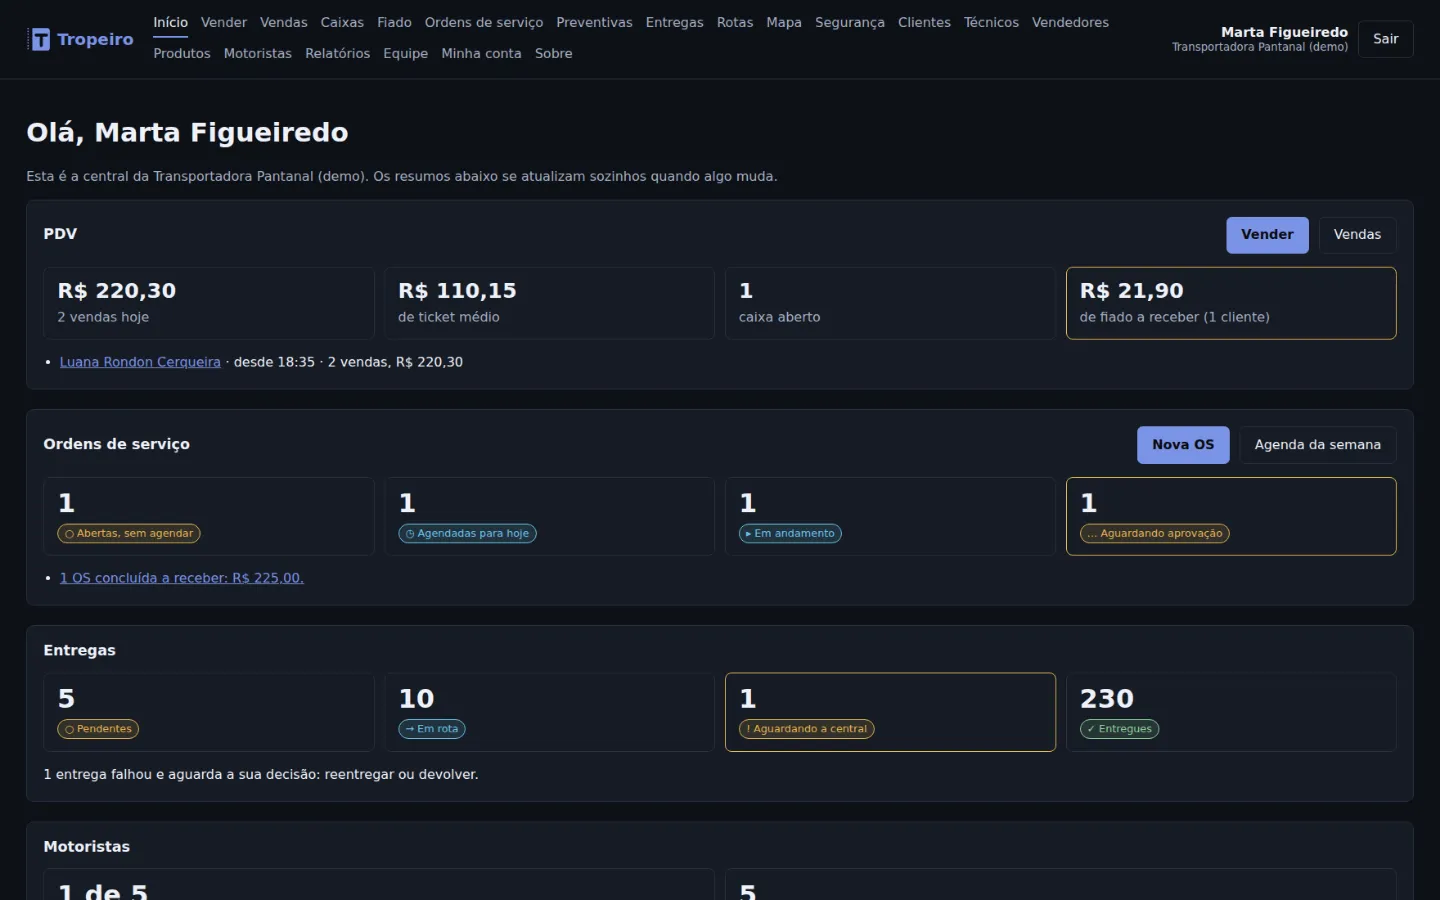
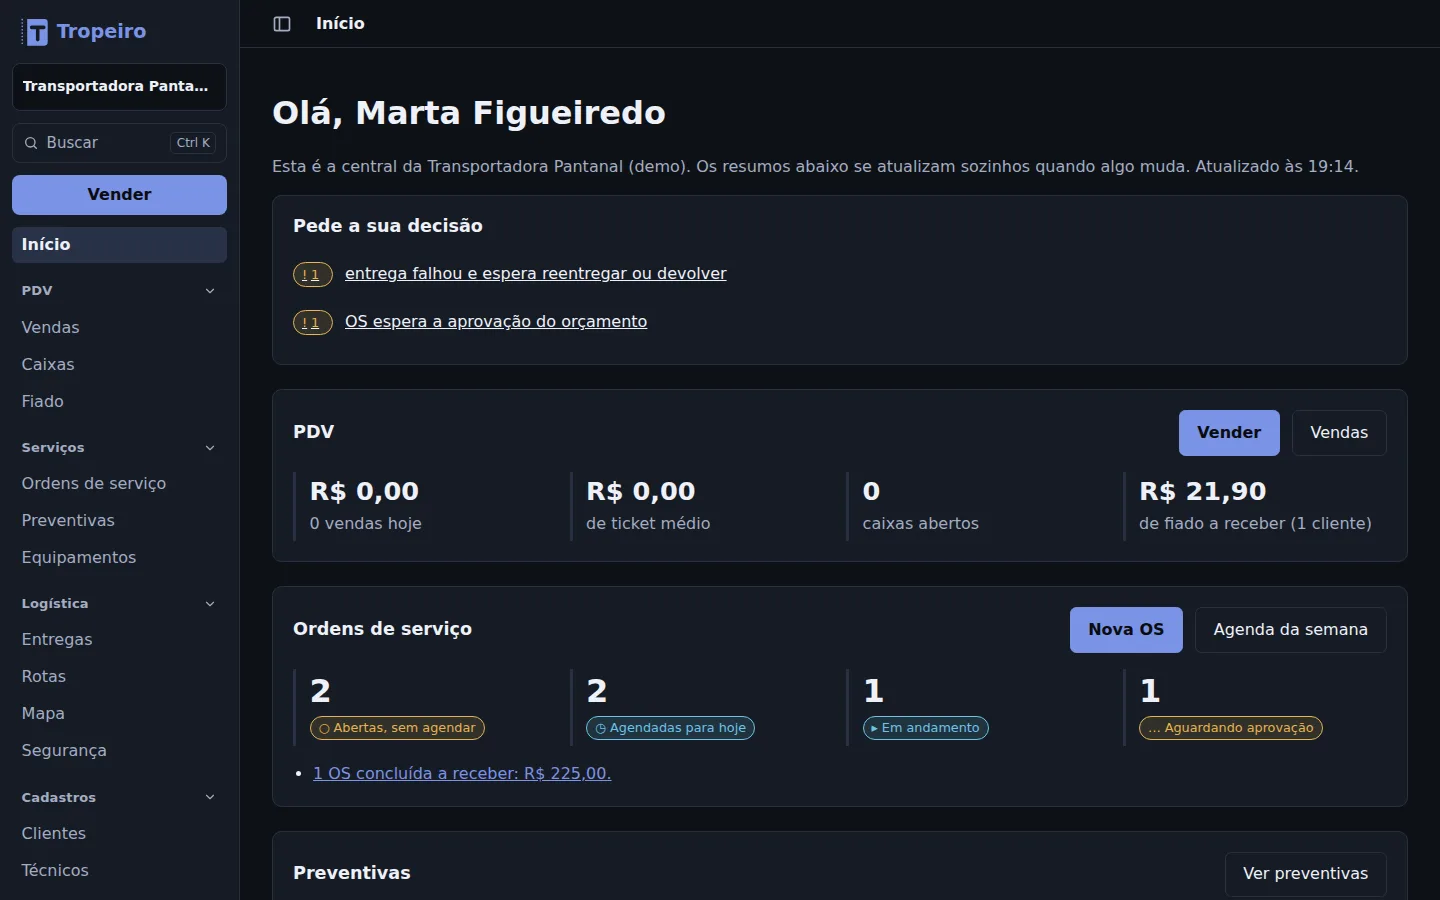
feat: Tropeiro 1.20.0 e Scanner Doc 5.10.2, com telas novas (v1.11.0)
- Tropeiro: selo na v1.20.0, a API pública e os 90 dias de avaliação
  na lista, e a tela do painel com a navegação lateral.
- Scanner Doc: selo na v5.10.2, português e inglês na abertura, o Editar
  com formulários e o Trocar texto na lista, a assinatura validada no ITI
  e as telas do redesenho.
- Rodapé das duas páginas na v1.11.0.

diff --git a/en/index.html b/en/index.html
@@ -81,7 +81,7 @@
             <div class="item-body item-intro">
               <div class="item-head">
                 <h3 id="title-tropeiro">Tropeiro</h3>
-                <p class="stamp">In production · <span class="ver">v1.12.1</span></p>
+                <p class="stamp">In production · <span class="ver">v1.20.0</span></p>
               </div>
               <div class="item-text">
                 <p>A platform for running small and medium businesses: each one uses the modules it needs, from last-mile delivery to work orders, point of sale and used auto parts, sharing a single record of customers and products. The same phone app serves the driver, the technician and the salesperson. It started with deliveries in Mato Grosso, Brazil, and in October 2026 it replaced the pilot, Logística Local &amp; Rotas.</p>
@@ -92,19 +92,19 @@
             <figure class="item-media">
               <picture>
                 <source media="(max-width: 760px)" srcset="../assets/img/painel-inicio-escuro-celular.webp" width="912" height="768">
-                <img src="../assets/img/painel-inicio-escuro.webp" width="1440" height="900" alt="Tropeiro's dashboard home, with live summaries of the company's point of sale, work orders and deliveries" fetchpriority="high">
+                <img src="../assets/img/painel-inicio-escuro.webp" width="1440" height="900" alt="Tropeiro's dashboard home, with side navigation by area, the items awaiting a decision and live summaries of the point of sale and work orders" fetchpriority="high">
               </picture>
             </figure>
             <div class="item-body item-more">
               <ul class="lines">
                 <li>Customer PIN and proof of delivery with photo, GPS and an integrity hash, against “marked as delivered, but I never got it”.</li>
-                <li>Live tracking over WhatsApp, routes with vehicle load limits, and invoices (NF-e) checked with the driver's camera.</li>
+                <li>Live tracking over WhatsApp, routes with vehicle load limits, invoices (NF-e) checked with the driver's camera, and a wallet for self-employed (MEI) drivers.</li>
                 <li>Work orders from quote to payment, with the technician in the app: photos, parts and the customer's signature, even offline.</li>
                 <li>Preventive maintenance that opens work orders on its own, on each plan's schedule.</li>
-                <li>Point of sale at the counter, with a barcode scanner, and on the phone, even offline: cash register, store credit, exchanges and returns.</li>
+                <li>Point of sale at the counter, with a barcode scanner, and on the phone, even offline: cash register, store credit, exchanges, returns and Pix following the Central Bank standard.</li>
                 <li>Used auto parts for salvage yards: each part linked to its donor car by the VIN, with photos, video and a barcode label.</li>
                 <li>A page for each part, shared over WhatsApp with the photo and price right in the chat, and point-of-sale sales with a warranty and checked returns.</li>
-                <li>Pix following the Central Bank standard, and a wallet for self-employed (MEI) drivers.</li>
+                <li>A public API to connect deliveries to online stores and ERPs, with a key per company, and a 90-day free trial.</li>
               </ul>
             </div>
             <figure class="item-media-end phones" tabindex="0" role="region" aria-label="Phone app screens">
@@ -119,10 +119,10 @@
             <div class="item-body item-intro">
               <div class="item-head">
                 <h3 id="title-scanner">Scanner Doc</h3>
-                <p class="stamp">Live · <span class="ver">v3.7.0</span> · open source</p>
+                <p class="stamp">Live · <span class="ver">v5.10.2</span> · open source</p>
               </div>
               <div class="item-text">
-                <p>Photos, Word files or PDFs become a PDF right in the browser. Nothing leaves the device: no upload, no sign-up, no tracking, and it works offline.</p>
+                <p>Photos, Word files or PDFs become a PDF right in the browser. Nothing leaves the device: no upload, no sign-up, no tracking, it works offline, and it speaks Portuguese and English.</p>
                 <p class="links">
                   <a class="go" href="https://scanner.sankler.com.br/">Open the app</a>
                   <a class="go" href="https://github.com/sanklerbergman/doc-scanner-pdf-engine">View the code</a>
@@ -133,7 +133,7 @@
             <figure class="item-media crop-top">
               <picture>
                 <source media="(max-width: 760px)" srcset="../assets/img/scanner-escuro-celular.webp" width="912" height="1372">
-                <img src="../assets/img/scanner-escuro.webp" width="1280" height="800" loading="lazy" alt="Scanner Doc home screen: a button to choose photos, PDFs or Word files, and the promise that nothing leaves the device">
+                <img src="../assets/img/scanner-escuro.webp" width="1280" height="800" loading="lazy" alt="Scanner Doc home screen: a button to choose photos, PDFs or Word files, and a stamp reading “processed on the device, 0 bytes sent”">
               </picture>
             </figure>
             <div class="item-body item-more">
@@ -142,7 +142,9 @@
                 <li>Merging, splitting and compressing PDFs, including password-protected ones, and password protection for the new PDF.</li>
                 <li>Searchable text (OCR) in photos and scanned PDFs, recognized on the device itself.</li>
                 <li>Real redaction: what lies underneath is removed from the PDF, not just covered, and the app finds tax IDs (CPF, CNPJ), phone numbers and emails to redact.</li>
-                <li>Signing with a Brazilian A1 digital certificate (e-CPF or e-CNPJ), in the PAdES standard that Acrobat recognizes.</li>
+                <li>Page editing: shapes, freehand drawing and text, plus filling in Acrobat forms.</li>
+                <li>Text replacement: tap a word and fix it in the same font and size, even in photos and scanned PDFs.</li>
+                <li>Signing with a Brazilian A1 digital certificate (e-CPF or e-CNPJ), in the PAdES standard, recognized by Acrobat and validated by Brazil's ITI verifier.</li>
                 <li>PDF/A, the archival format some Brazilian courts require for electronic filings.</li>
               </ul>
             </div>
@@ -204,7 +206,7 @@
 
     <footer class="row foot">
       <div class="row-label"><p>© 2026 <span>Sankler Bergman</span></p></div>
-      <div class="foot-text"><p>No cookies. Visits counted by Cloudflare Web Analytics.</p><p class="version">v1.10.0</p></div>
+      <div class="foot-text"><p>No cookies. Visits counted by Cloudflare Web Analytics.</p><p class="version">v1.11.0</p></div>
     </footer>
   </div>
   <!-- Cloudflare Web Analytics --><script type='module' src='https://static.cloudflareinsights.com/beacon.min.js' data-cf-beacon='{"token": "7807c7852e47422086e274342e7d65ed"}'></script><!-- End Cloudflare Web Analytics -->

diff --git a/index.html b/index.html
@@ -81,7 +81,7 @@
             <div class="item-body item-intro">
               <div class="item-head">
                 <h3 id="titulo-tropeiro">Tropeiro</h3>
-                <p class="stamp">Em produção · <span class="ver">v1.12.1</span></p>
+                <p class="stamp">Em produção · <span class="ver">v1.20.0</span></p>
               </div>
               <div class="item-text">
                 <p>Plataforma para a operação de pequenas e médias empresas: cada uma usa os módulos de que precisa, entre entregas de última milha, ordens de serviço, PDV e peças usadas, com um cadastro só de clientes e de produtos. O mesmo app de celular serve o motorista, o técnico e o vendedor. Começou pelas entregas em Mato Grosso e, em outubro de 2026, substituiu o piloto, o Logística Local &amp; Rotas.</p>
@@ -92,19 +92,19 @@
             <figure class="item-media">
               <picture>
                 <source media="(max-width: 760px)" srcset="assets/img/painel-inicio-escuro-celular.webp" width="912" height="768">
-                <img src="assets/img/painel-inicio-escuro.webp" width="1440" height="900" alt="Início da central do Tropeiro, com os resumos ao vivo do PDV, das ordens de serviço e das entregas da empresa" fetchpriority="high">
+                <img src="assets/img/painel-inicio-escuro.webp" width="1440" height="900" alt="Início da central do Tropeiro, com a navegação lateral por área, o que pede a decisão da central e os resumos ao vivo do PDV e das ordens de serviço" fetchpriority="high">
               </picture>
             </figure>
             <div class="item-body item-more">
               <ul class="lines">
                 <li>PIN do cliente e comprovante com foto, GPS e hash de integridade contra o “entregue, mas não recebi”.</li>
-                <li>Rastreio ao vivo pelo WhatsApp, rotas com limite de carga e NF-e conferida pela câmera do motorista.</li>
+                <li>Rastreio ao vivo pelo WhatsApp, rotas com limite de carga e NF-e conferida pela câmera do motorista e carteira do motorista MEI.</li>
                 <li>Ordem de serviço do orçamento ao recebimento, com o técnico no app: fotos, peças e assinatura do cliente, mesmo sem internet.</li>
                 <li>Manutenção preventiva que abre as ordens sozinha, no prazo de cada plano.</li>
-                <li>PDV no balcão, com leitor de código de barras, e no celular, sem internet: caixa, fiado, troca e devolução.</li>
+                <li>PDV no balcão, com leitor de código de barras, e no celular, sem internet: caixa, fiado, troca, devolução e Pix no padrão do Banco Central.</li>
                 <li>Peças usadas para desmanches: cada peça ligada ao carro de origem pelo chassi, com fotos, vídeo e etiqueta com código de barras.</li>
                 <li>Ficha da peça com link para o WhatsApp, que já mostra a foto e o preço na conversa, e venda no PDV com garantia e devolução conferida.</li>
-                <li>Pix no padrão do Banco Central e carteira do motorista MEI.</li>
+                <li>API pública para integrar as entregas a lojas e ERPs, com chave por empresa, e 90 dias de avaliação gratuita.</li>
               </ul>
             </div>
             <figure class="item-media-end phones" tabindex="0" role="region" aria-label="Telas do app no celular">
@@ -119,10 +119,10 @@
             <div class="item-body item-intro">
               <div class="item-head">
                 <h3 id="titulo-scanner">Scanner Doc</h3>
-                <p class="stamp">No ar · <span class="ver">v3.7.0</span> · código aberto</p>
+                <p class="stamp">No ar · <span class="ver">v5.10.2</span> · código aberto</p>
               </div>
               <div class="item-text">
-                <p>Foto, Word ou PDF viram PDF no próprio navegador. Nada sai do aparelho: sem upload, sem cadastro e sem rastreio, e funciona offline.</p>
+                <p>Foto, Word ou PDF viram PDF no próprio navegador. Nada sai do aparelho: sem upload, sem cadastro e sem rastreio, funciona offline e fala português e inglês.</p>
                 <p class="links">
                   <a class="go" href="https://scanner.sankler.com.br/">Abrir o app</a>
                   <a class="go" href="https://github.com/sanklerbergman/doc-scanner-pdf-engine">Ver o código</a>
@@ -132,7 +132,7 @@
             <figure class="item-media crop-top">
               <picture>
                 <source media="(max-width: 760px)" srcset="assets/img/scanner-escuro-celular.webp" width="912" height="1372">
-                <img src="assets/img/scanner-escuro.webp" width="1280" height="800" loading="lazy" alt="Tela inicial do Scanner Doc: botão para escolher fotos, PDFs ou documentos do Word e a garantia de que nada sai do aparelho">
+                <img src="assets/img/scanner-escuro.webp" width="1280" height="800" loading="lazy" alt="Tela inicial do Scanner Doc: botão para escolher fotos, PDFs ou documentos do Word e o carimbo “processado no aparelho, 0 bytes enviados”">
               </picture>
             </figure>
             <div class="item-body item-more">
@@ -141,7 +141,9 @@
                 <li>Juntar, separar e comprimir PDFs, inclusive os protegidos por senha, e proteger o PDF novo com senha.</li>
                 <li>Texto pesquisável (OCR) nas fotos e nos PDFs escaneados, reconhecido no próprio aparelho.</li>
                 <li>Tarja de verdade: o que está embaixo é apagado do PDF, não só coberto, e o app acha CPF, CNPJ, telefone e e-mail para tarjar.</li>
-                <li>Assinatura com certificado digital A1 (e-CPF ou e-CNPJ), no padrão PAdES, que o Acrobat reconhece.</li>
+                <li>Editar a página: formas, desenho à mão e texto, e preencher formulários do Acrobat.</li>
+                <li>Trocar texto: tocar numa palavra e corrigir, na mesma letra e no mesmo tamanho, até em foto e PDF escaneado.</li>
+                <li>Assinatura com certificado digital A1 (e-CPF ou e-CNPJ), no padrão PAdES, que o Acrobat reconhece e o verificador do ITI valida.</li>
                 <li>PDF/A, o formato de arquivamento que alguns tribunais pedem no processo eletrônico.</li>
               </ul>
             </div>
@@ -203,7 +205,7 @@
 
     <footer class="row foot">
       <div class="row-label"><p>© 2026 <span>Sankler Bergman</span></p></div>
-      <div class="foot-text"><p>Sem cookies. Visitas contadas pelo Cloudflare Web Analytics.</p><p class="version">v1.10.0</p></div>
+      <div class="foot-text"><p>Sem cookies. Visitas contadas pelo Cloudflare Web Analytics.</p><p class="version">v1.11.0</p></div>
     </footer>
   </div>
   <!-- Cloudflare Web Analytics --><script type='module' src='https://static.cloudflareinsights.com/beacon.min.js' data-cf-beacon='{"token": "7807c7852e47422086e274342e7d65ed"}'></script><!-- End Cloudflare Web Analytics -->
